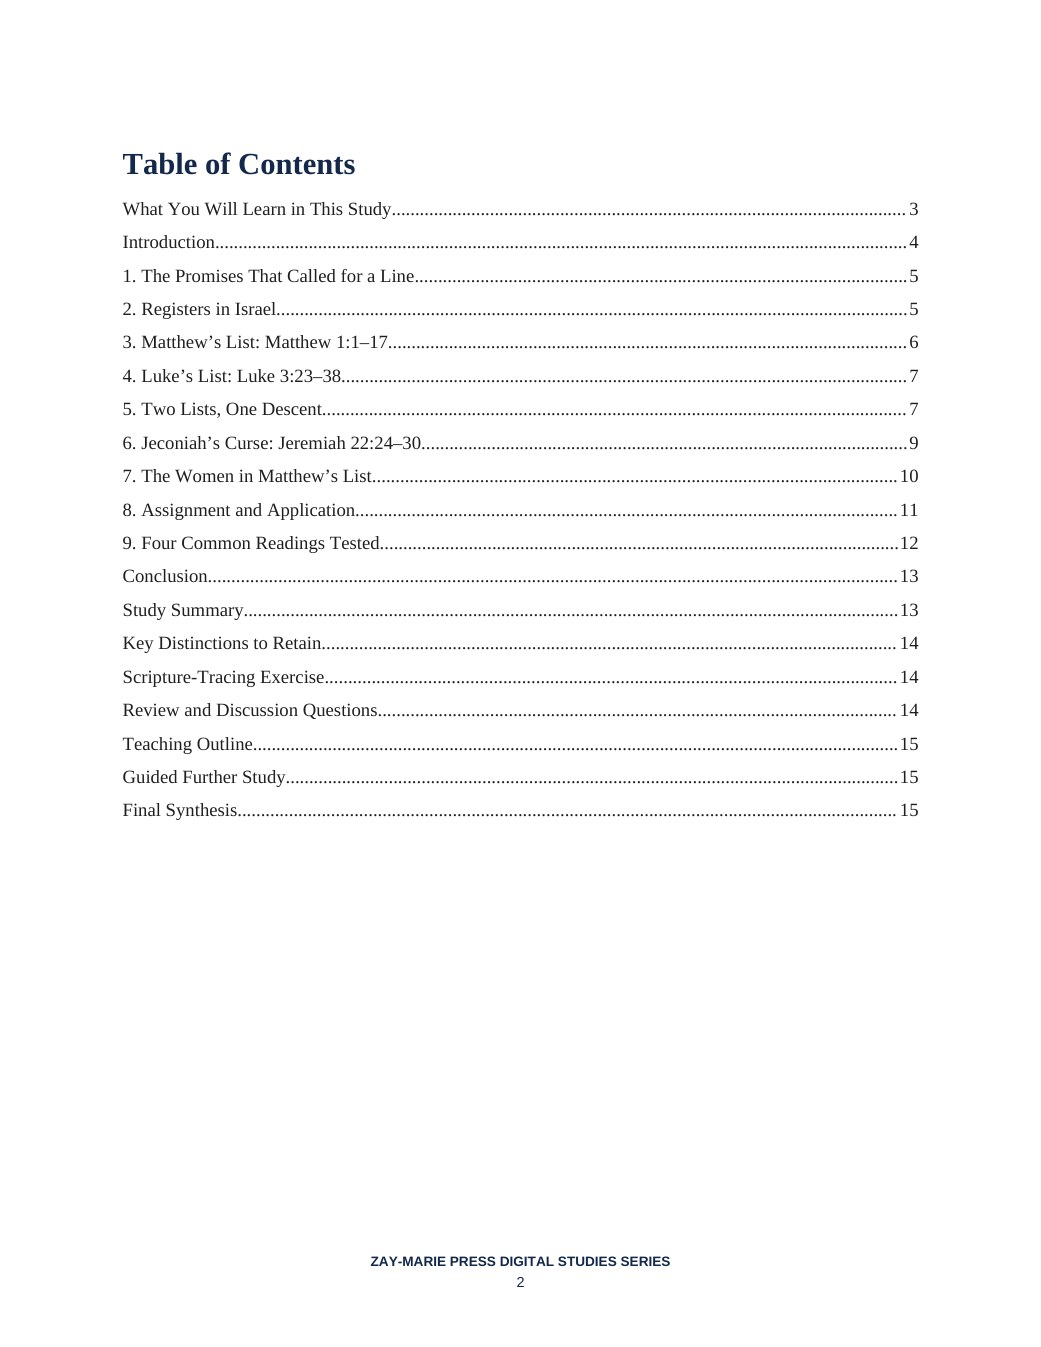
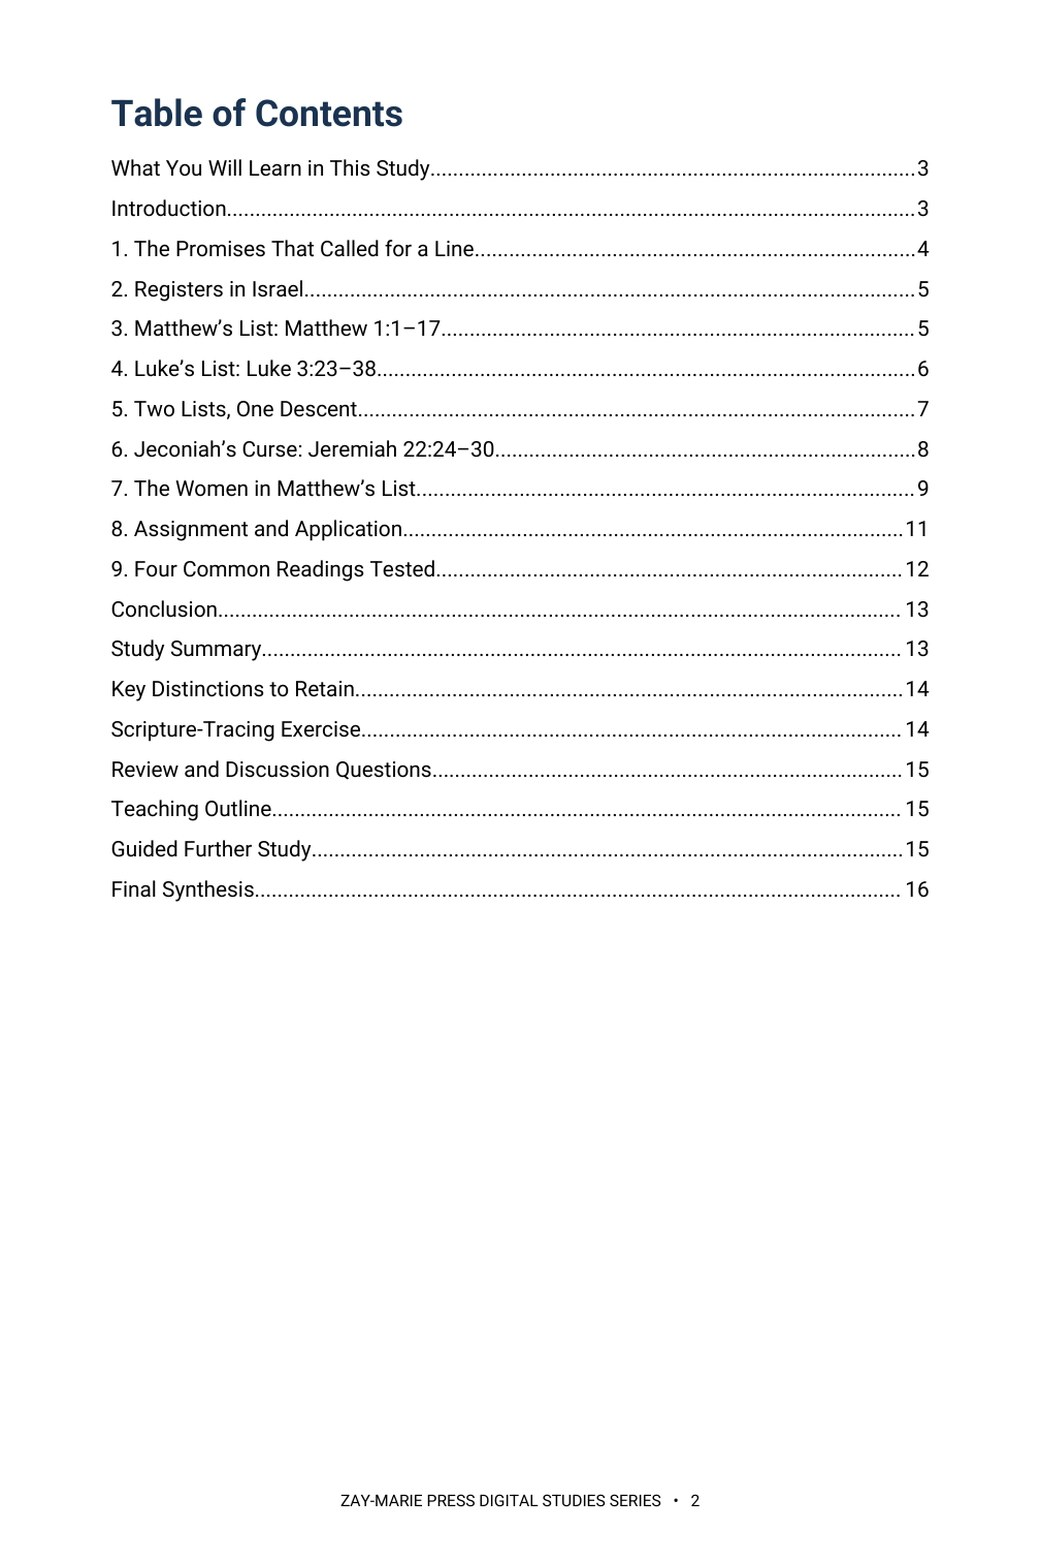
Study 71: rebuilt in Roboto at 10 pt, 16 pages; previews and trackers updated
Claude-Session: https://claude.ai/code/session_01HC7bs9KYP2scp4hCL6DkTp

diff --git a/CLAUDE.md b/CLAUDE.md
@@ -23,7 +23,7 @@ These are kept in the repo at `controlling-documents/` and are the current versi
 - As of v1.50 (publisher directive, 2026-10-03), the **What You Will Learn in This Study** section is always bulleted, never set as running paragraphs, written into this file in the same pass (Master Standard Section 3 item 4, Section 6 structure line, Section 22): a list of bullet points, each describing one process, textual marker or interpretive discipline the reader will practice (Section 17 still governs what they may say); at most one short lead-in line may stand above the bullets (for example, “By the end of this study, you should be able to:”); the Study Goal callout and the Study Outline keep their own forms. It governs every new study and every study rebuilt or retrofitted from now on; earlier studies take it when reopened or when the publisher directs. In every study check (Step 1), report whether the section is bulleted. First applied to Study 43.
 **`controlling-documents/Digital_Studies_Relationship_Map_v1.39.md`** — records each study's distinct subject, its related studies, the eight priced six-study collections, the Paul's Missionary Journeys cross-reference map, and the five primary catalog categories (currently version 1.39, covers Studies 1–71; update it as new studies publish, bump the version number, rename the file to match, and log the change in its own version-history table — mirroring the Master Standard's `_vX.Y` filename convention). Check a proposed topic against it before recommending or writing a new study. (2026-09-28: the file was missing from this repo despite this note referencing it; replaced from the publisher's copy and bumped v1.15→v1.25 in the same pass. If this note ever again points to a version not present under `controlling-documents/`, ask the publisher for a copy rather than proceeding without the check.)
 - **`controlling-documents/Digital_Studies_Category_Standard_v1.1.md`** — FINAL and binding (publisher, 2026-10-01): the rules for the five primary catalog categories (Foundations, Israel & Prophecy, Body of Christ, Passages, Doctrinal Themes), the ordered decision procedure for new studies, the precedents, all 71 fixed assignments, and the cover-label form for each category. Read it before placing any card or cover label. Do not ask the publisher where a study belongs; apply the procedure and state the result. Only the publisher changes a ruling; then bump this Standard's version and filename, re-letter the cover, and update the Relationship Map.
-- **`controlling-documents/Doctrinal_Upgrade_Retrofit_Plan_v1.93.md`** — working tracker for retrofitting Studies 1–59 to the 2026-10-02 doctrinal upgrade (Framework/PAM v1.1, Master Standard v1.40, Rules 7–17): withdrawn-wording search keys, impact tiers, waves and the per-study method. Read it before continuing the retrofit in any session; update status, bump the version and rename the file as work proceeds.
+- **`controlling-documents/Doctrinal_Upgrade_Retrofit_Plan_v1.94.md`** — working tracker for retrofitting Studies 1–59 to the 2026-10-02 doctrinal upgrade (Framework/PAM v1.1, Master Standard v1.40, Rules 7–17): withdrawn-wording search keys, impact tiers, waves and the per-study method. Read it before continuing the retrofit in any session; update status, bump the version and rename the file as work proceeds.
 - **`controlling-documents/Doctrinal_Packet_Standard_v0.3.md`** — Doctrinal Packet Standard (DRAFT; §7 approved). Governs the separate Doctrinal Packets product strand (5-page interpretive PDFs per Bible book — a print-friendly cover as page 1 plus 4 content pages, $2.99, KJV, pilot: Genesis, live at `packet-genesis.html`, hub `doctrinal-packets.html`; site pages say "5 Pages", cover styles live in `packets.css`, Old Testament blue and New Testament soft pale green, hub listed in Bible order). **Preview rule (publisher directive, 2026-09-29, packets only):** previews show about one page's worth in two cropped views (top of page 1 through the anchor texts; the chart section) — never the exegesis, architecture, Mystery contrast, logic chain, outline, or closing. Master Standard §16/§17 still govern Digital Studies. Bump the version and rename the file as the Standard is finalized.
 - **`controlling-documents/Preview_Page_Spoiler_Retrofit_Audit_v1.4.md`** — working tracker for the Studies 1–60 preview-page conclusion-spoiler retrofit (see the section below). Read it before continuing that audit in any session; update its status fields and changelog, bump the version, and rename the file to match as the audit proceeds — same `_vX.Y` convention as the other controlling documents. As of v1.1, the website-side half was DONE: all 60 studies' "What You'll Study" text was judged against the rule (methodology documented in the file) and 22 points across 11 studies were rewritten and pushed; an unrelated Study 22 content bug (Study 21's content had leaked into it) was also found and fixed. As of v1.2, the publisher supplied Studies 1–60's interior production PDFs and the interior-PDF half was also surveyed (read-only): 10 studies (37, 41, 45, 47, 48, 49, 51, 52, 53, 54) were found to have at least one interior "What You Will Learn" violation, 50 studies were confirmed compliant, and the orphaned `assets/study-45-sanctification-under-grace.docx` (removed from the repo per the publisher in v1.0) was confirmed word-for-word identical to Study 45's actual production interior PDF content. As of v1.3, the publisher supplied editable DOCX sources for all 10 violating studies; all 15 violating points were rewritten and approved, delivered as corrected final PDFs, and — along the way — a second defect was found and fixed (Studies 47 and 48's source DOCX still had an unintegrated cover placeholder despite both being long-published live with real covers; fixed by inserting the existing approved cover art). The website's "What You Will Learn" preview image (`study-NN-page-3.jpg`) was regenerated from the corrected content for all 10 studies and pushed to `main` (commit `cea1859`), verified against a fresh clone. **The website side of this audit is now fully compliant for all 60 studies.** Outstanding: the publisher's purchasable interior PDF files themselves have corrected versions delivered, but distribution to existing purchasers was decided by the publisher on 2026-09-29: silent swap of the files behind the existing downloads, no reissue notice (recorded in the v1.4 changelog entry; the product files are not in this repo).
 

diff --git a/controlling-documents/Doctrinal_Upgrade_Retrofit_Plan_v1.94.md b/controlling-documents/Doctrinal_Upgrade_Retrofit_Plan_v1.94.md
@@ -186,3 +186,4 @@ Working tracker for correcting published studies to the Framework/PAM v1.1, Mast
 - v1.91 (2026-10-03): Study 68 rebuilt in Roboto at 10 pt on the current page from the publisher's PDF (no DOCX or approved FINAL supplied; text taken from the PDF word for word), 16 pages (cover plus 15; unchanged). Changes: What You Will Learn set as bullets under one lead-in (closing paragraph removed; bullet 7 reworded to a process line); nine callouts reduced to five (Registers Before the Book, The Verb and Its Speakers, Found Written and The Lamb's Book became run-in paragraphs, wording unchanged); Teaching Outline numerals changed to 1–8; split section 6 table merged; standing wording applied: the reader-facing book sentence added after Hebrews 12:23 (4.3) and Philippians 4:3 (8.2), and "The Body of Christ does not appear in Revelation's prophetic scenes." added to 7.3; "controlling framework" replaced. No withdrawn doctrinal wording found. pdffonts confirms Roboto only. Previews 2, 3 and 5 re-rendered.
 - v1.92 (2026-10-03): Study 69 rebuilt in Roboto at 10 pt on the current page from the publisher's PDF (no DOCX or approved FINAL supplied; text taken from the PDF word for word), 17 pages (cover plus 16; was 16). Changes: What You Will Learn set as bullets under one lead-in (closing paragraph removed; bullet 7 reworded to a process line); nine callouts reduced to five (Stated Before Organized, The City by Its Markers, Where Paul Writes the Hope and Context First became run-in paragraphs, wording unchanged); Teaching Outline numerals changed to 1–8; split Kingdom-passages table merged; orphan imprint fixed with layout-only keep-with-next on the last Final Synthesis lines; reader-facing wording: four "Framework" references (8.1 x2, Conclusion, Study Summary) and "controlling framework" replaced; standing wording applied: "The Body of Christ does not appear in Revelation's prophetic scenes." added in 8.1 and the reader-facing book sentence added after Hebrews 12:22–23 (6.2). No withdrawn doctrinal wording found. pdffonts confirms Roboto only. Previews 2, 3 and 5 re-rendered; site.js and page text updated.
 - v1.93 (2026-10-03): Study 70 rebuilt in Roboto at 10 pt on the current page from the publisher's PDF (no DOCX or approved FINAL supplied; text taken from the PDF word for word), 17 pages (cover plus 16; was 16). Changes: What You Will Learn set as bullets under one lead-in (closing paragraph removed; bullet 7 reworded to a process line); six callouts reduced to five (A Person and a Group became a run-in paragraph, wording unchanged); Teaching Outline numerals changed to 1–8; split water-and-Spirit table merged; orphan imprint fixed with layout-only keep-with-next; reader-facing wording: two "framework of this series" references (8.1, 8.2) and "controlling framework" replaced; standing wording applied: the reader-facing passage sentence added at the end of 8.1 (John 3, no entry of its own). No withdrawn doctrinal wording found. pdffonts confirms Roboto only. Previews 2, 3 and 5 re-rendered; site.js and page text updated. Batch 62–70 complete; Studies 61 and 71 (PDF-only first retrofits) remain.
+- v1.94 (2026-10-03): Study 71 rebuilt in Roboto at 10 pt on the current page from the publisher's PDF (first retrofit; no DOCX supplied; text taken from the PDF word for word), 16 pages (cover plus 15; unchanged). Changes: What You Will Learn set as bullets under one lead-in (closing paragraph removed); six callouts reduced to five (A Promise That Names a Line became a run-in paragraph, wording unchanged); Teaching Outline numerals changed to 1–8; split two-lists table merged; reader-facing wording: "The Framework of this series places…" (8.1) and "the study's framework" replaced. No withdrawn doctrinal wording found; no standing-sentence additions needed. pdffonts confirms Roboto only. Previews 2, 3 and 5 re-rendered. Study 60 PDF reviewed read-only: already in the current format, no change. Study 61 (PDF-only first retrofit) remains.

diff --git a/controlling-documents/Digital_Studies_PAM_Audit_v1.188.md b/controlling-documents/Digital_Studies_PAM_Audit_v1.188.md
@@ -417,3 +417,4 @@ Study 15 PDF not yet supplied. Typography: none of Studies 2, 3, 6, 8 is in EB G
 - v1.185 (2026-10-03): Study 68 rebuilt in Roboto at 10 pt, 16 pages (see Retrofit Plan v1.91).
 - v1.186 (2026-10-03): Study 69 rebuilt in Roboto at 10 pt, 17 pages; Framework references removed from reader text (see Retrofit Plan v1.92).
 - v1.187 (2026-10-03): Study 70 rebuilt in Roboto at 10 pt, 17 pages; Framework references removed from reader text (see Retrofit Plan v1.93).
+- v1.188 (2026-10-03): Study 71 rebuilt in Roboto at 10 pt, 16 pages; Framework references removed from reader text (see Retrofit Plan v1.94).
